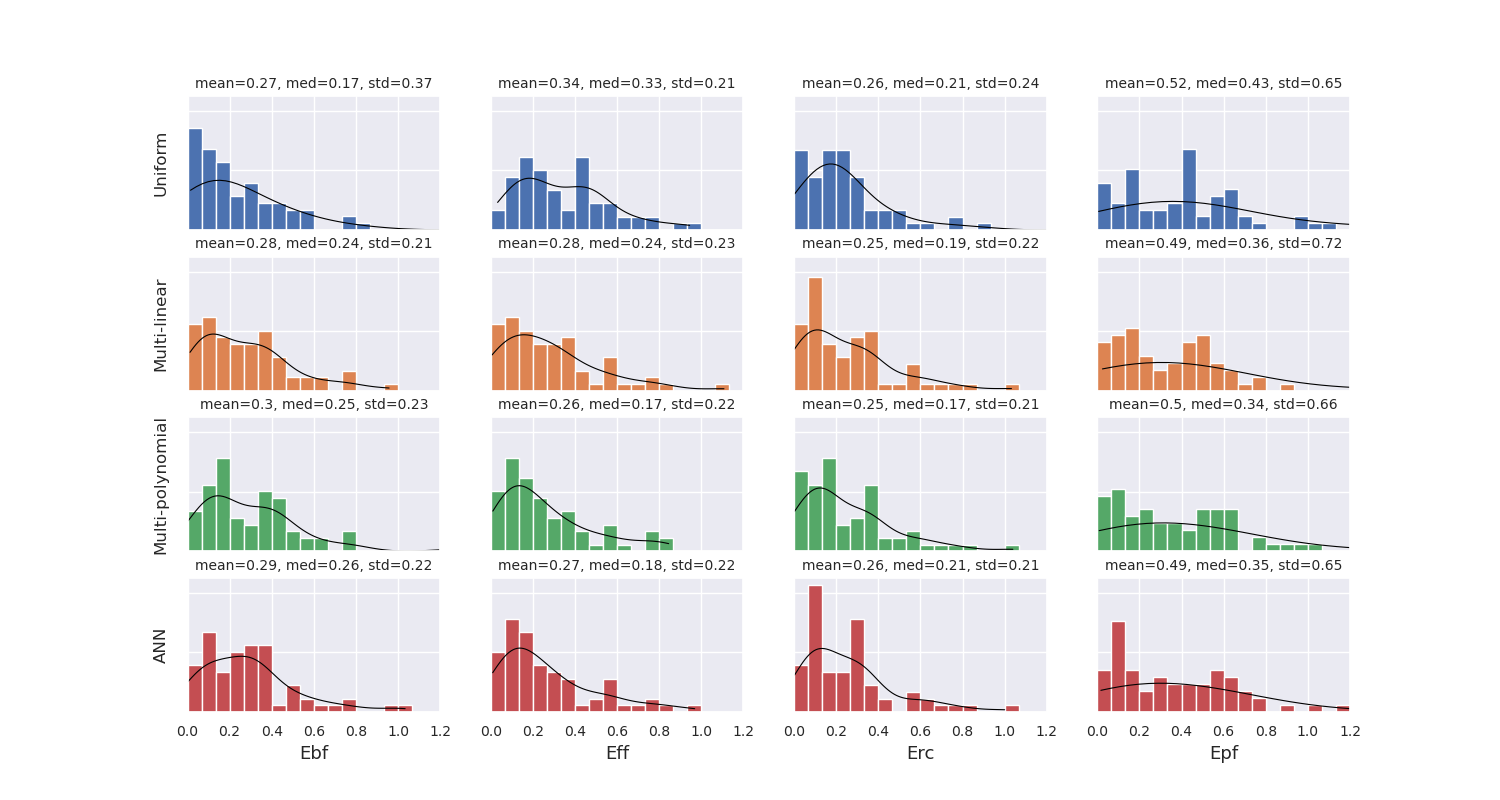
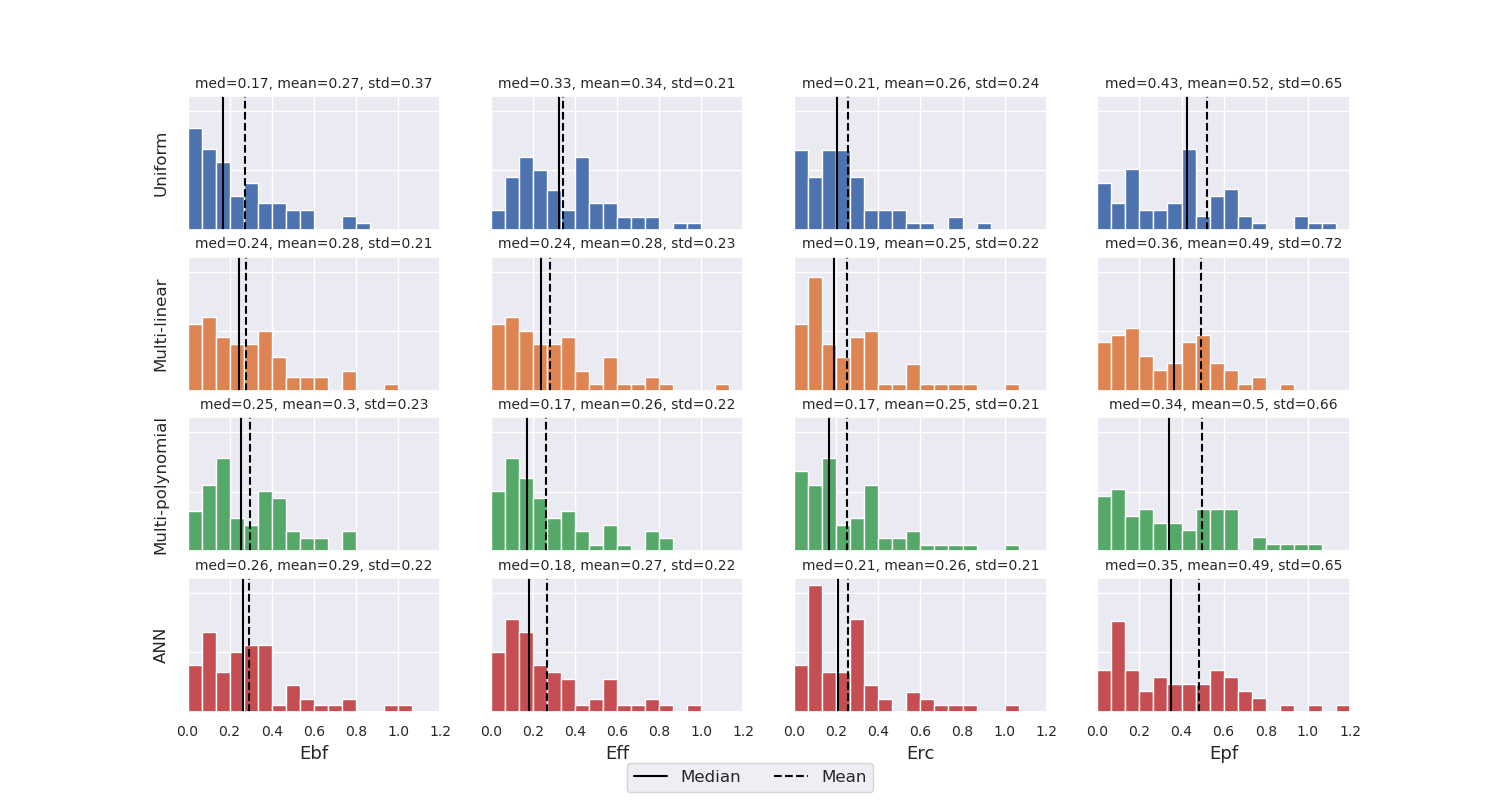
ENC: add axvline for mean and meadian hist signatures-based validation metrics

diff --git a/run_result-analysis.py b/run_result-analysis.py
@@ -822,16 +822,20 @@ def compare_signature_hist(
 
             axes[i, j].hist(x, bins=30, color=colors[i], range=[0, 2], density=True)
 
-            density = gaussian_kde(x)
-            x_vals = np.linspace(x.min(), x.max(), 100)
-            axes[i, j].plot(x_vals, density(x_vals), "black", linewidth=0.8)
+            # density = gaussian_kde(x)
+            # x_vals = np.linspace(x.min(), x.max(), 100)
+            # axes[i, j].plot(x_vals, density(x_vals), "black", linewidth=0.8)
 
             axes[i, j].set_xlim([0, 1.2])
             axes[i, j].set_xticks([0, 0.2, 0.4, 0.6, 0.8, 1, 1.2])
             axes[i, j].set_ylim([0, 4.5])
+            axes[i, j].axvline(np.median(x), linewidth=1.5, label="Median", c="black")
+            axes[i, j].axvline(
+                np.mean(x), linewidth=1.5, label="Mean", c="black", linestyle="--"
+            )
             axes[i, j].set_yticklabels([])
             axes[i, j].set_title(
-                f"mean={round(np.mean(x), 2)}, med={round(np.median(x), 2)}, std={round(np.std(x), 2)}",
+                f"med={round(np.median(x), 2)}, mean={round(np.mean(x), 2)}, std={round(np.std(x), 2)}",
                 fontsize=10,
             )
 
@@ -844,6 +848,10 @@ def compare_signature_hist(
 
             if j == 0:
                 axes[i, j].set_ylabel(args.methods[i], fontsize=12)
+
+    # Add a legend to the figure
+    handles, labels = axes[0, 0].get_legend_handles_labels()
+    fig.legend(handles, labels, loc="lower center", ncol=2, fontsize=12)
 
     plt.savefig(os.path.join(args.output, figname + ".png"))
 
